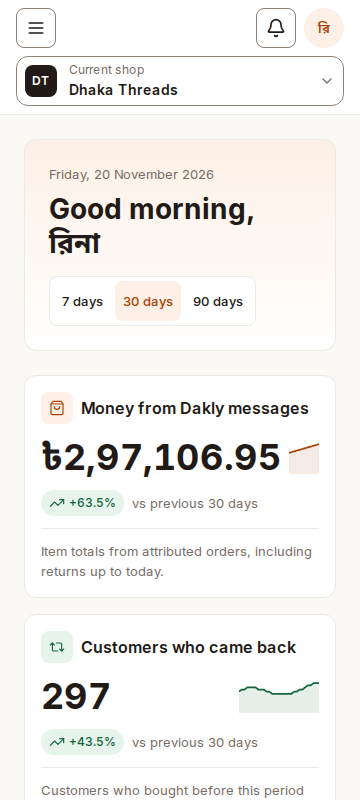
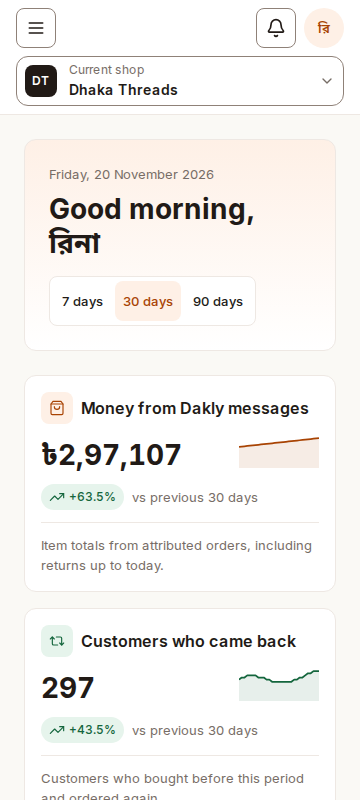
fix(ana-2): fit dashboard amounts and simplify report reads

Changed region(s): [[0.0917, 0.5312, 0.8861, 0.7188], [0.0917, 0.7812, 0.8556, 1.0], [0.8556, 0.8125, 0.8861, 0.8438]]

diff --git a/apps/web/e2e/dashboard.spec.ts b/apps/web/e2e/dashboard.spec.ts
@@ -68,6 +68,29 @@ test('changes the report period and keeps cards scoped to the selected shop', as
     ]) {
       await expect(figures.getByRole('heading', { name: title, exact: true })).toBeVisible();
     }
+    const marketing = figures
+      .getByRole('heading', { name: 'Money from Dakly messages' })
+      .locator('..');
+    const amount = marketing.getByText('৳2,97,107', { exact: true });
+    async function expectAmountBesideTrend() {
+      await expect(amount).toBeVisible();
+      const amountBox = (await amount.boundingBox())!;
+      const chart = (await amount.locator('..').locator('svg').boundingBox())!;
+      const card = (await marketing.boundingBox())!;
+      expect(chart.x).toBeGreaterThanOrEqual(amountBox.x + amountBox.width);
+      expect(chart.x + chart.width).toBeLessThan(card.x + card.width);
+      expect(chart.y).toBeLessThan(amountBox.y + amountBox.height);
+      expect(chart.y + chart.height).toBeGreaterThan(amountBox.y);
+      expect(await amount.evaluate((el) => el.scrollWidth <= el.clientWidth)).toBe(true);
+      expect(amountBox.height).toBeLessThan(40);
+    }
+    await expectAmountBesideTrend();
+    const rows = await figures
+      .getByRole('heading')
+      .evaluateAll((elements) =>
+        elements.map((heading) => heading.parentElement!.getBoundingClientRect().top),
+      );
+    expect(new Set(rows).size).toBe(1);
     await expect(figures.getByRole('img', { name: 'Up', exact: true })).toHaveCount(5);
     const lifecycle = page.getByRole('region', { name: 'Your customers at a glance' });
     await expect(lifecycle.getByText('2,486 customers', { exact: true })).toBeVisible();
@@ -83,6 +106,7 @@ test('changes the report period and keeps cards scoped to the selected shop', as
     expect(await page.evaluate(() => document.documentElement.scrollWidth)).toBeLessThanOrEqual(
       360,
     );
+    await expectAmountBesideTrend();
     if (process.env.DASHBOARD_EVIDENCE) {
       await page.screenshot({ path: testInfo.outputPath('dashboard-360x800.png') });
     }

diff --git a/apps/web/src/features/dashboard/components/dashboard-metrics.tsx b/apps/web/src/features/dashboard/components/dashboard-metrics.tsx
@@ -54,7 +54,13 @@ type MetricsProps = { cards: DashboardResponse['cards']; period: number };
 
 export function DashboardMetrics({ cards, period }: MetricsProps) {
   return (
-    <section aria-label="Key figures" className="grid gap-4 sm:grid-cols-2 xl:grid-cols-4">
+    <section
+      aria-label="Key figures"
+      className={cn(
+        'grid gap-4 sm:grid-cols-2',
+        metrics.every(({ id }) => cards[id]) ? 'xl:grid-cols-5' : 'xl:grid-cols-4',
+      )}
+    >
       {metrics.map(({ id, title, icon: Icon, color, fill, description }) => {
         const card = cards[id];
         if (!card) return null;
@@ -62,6 +68,7 @@ export function DashboardMetrics({ cards, period }: MetricsProps) {
         const total = BigInt(sales ? card.totalPoisha : card.total);
         const previous = BigInt(sales ? card.previousPoisha : card.previous);
         const points = sales ? card.pointsPoisha : card.points;
+        const amount = sales ? formatMoney(((total + 50n) / 100n) * 100n) : formatCount(total);
         return (
           <Card key={id} className="flex min-w-0 flex-col gap-3 p-4">
             <h2 className="flex items-center gap-2 text-md font-semibold xl:gap-1 xl:tracking-tight">
@@ -70,9 +77,9 @@ export function DashboardMetrics({ cards, period }: MetricsProps) {
               </span>
               {title}
             </h2>
-            <div className="flex flex-wrap items-end gap-2">
-              <p className="max-w-full text-2xl font-bold wrap-anywhere tabular-nums">
-                {sales ? formatMoney(total) : formatCount(total)}
+            <div className="flex min-w-0 items-end gap-2">
+              <p className="min-w-0 truncate text-xl font-bold tabular-nums" title={amount}>
+                {amount}
               </p>
               <Sparkline points={points} className={color} />
             </div>

diff --git a/packages/core/src/analytics/analytics.repository.ts b/packages/core/src/analytics/analytics.repository.ts
@@ -16,16 +16,30 @@ export const marketingMetrics = ['marketing_orders', 'marketing_revenue'] as con
 export class AnalyticsRepository {
   constructor(@Inject(TenantDatabase) private readonly database: TenantDatabase) {}
 
-  readDailyMetrics(
+  readDailyMetrics(storeId: string, period: ReportPeriod, metrics: string[]) {
+    return this.readMetrics(
+      storeId,
+      period,
+      metrics,
+      sql`(${storeDailyMetrics.dimension} = '' or ${storeDailyMetrics.metric} = 'sales')`,
+    );
+  }
+
+  readAttributionMetrics(storeId: string, period: ReportPeriod, dimensions?: string[]) {
+    return this.readMetrics(
+      storeId,
+      period,
+      [...marketingMetrics],
+      dimensions ? inArray(storeDailyMetrics.dimension, dimensions) : undefined,
+    );
+  }
+
+  private readMetrics(
     storeId: string,
     period: ReportPeriod,
     metrics: string[],
-    dimensions?: string[] | 'all',
+    filter: ReturnType<typeof sql> | undefined,
   ) {
-    let filter: ReturnType<typeof sql> | undefined;
-    if (dimensions === undefined)
-      filter = sql`(${storeDailyMetrics.dimension} = '' or ${storeDailyMetrics.metric} = 'sales')`;
-    else if (dimensions !== 'all') filter = inArray(storeDailyMetrics.dimension, dimensions);
     return this.database.forStore(storeId, (tx) =>
       tx
         .select({

diff --git a/packages/core/src/analytics/analytics.service.ts b/packages/core/src/analytics/analytics.service.ts
@@ -4,7 +4,7 @@ import { lifecycleStages } from '@dakly/contracts/contacts';
 
 import { Clock } from '../platform/clock';
 import { StoresService } from '../stores/stores.service';
-import { AnalyticsRepository, marketingMetrics } from './analytics.repository';
+import { AnalyticsRepository } from './analytics.repository';
 import { reportDay, retainedSince, shiftReportDay, type ReportPeriod } from './report-period';
 
 type Point = { day: string; value: bigint };
@@ -59,12 +59,7 @@ export class AnalyticsService {
   ) {
     if (!ids.length) return {};
     const dimensions = ids.map((id) => `${source}:${id}`);
-    const rows = await this.repository.readDailyMetrics(
-      storeId,
-      period,
-      [...marketingMetrics],
-      dimensions,
-    );
+    const rows = await this.repository.readAttributionMetrics(storeId, period, dimensions);
     const totals = new Map<string, bigint>();
     for (const { dimension, metric, value } of rows) {
       const key = `${dimension}/${metric}`;

diff --git a/packages/core/src/automations/automations.service.spec.ts b/packages/core/src/automations/automations.service.spec.ts
@@ -85,7 +85,12 @@ function serviceFor(graph: AutomationGraph) {
     {} as WalletService,
     {
       periods: async () => ({ current: { from: '2026-11-01', through: '2026-11-30' } }),
-      attributionBySource: async () => ({}),
+      attributionBySource: async (
+        _storeId: string,
+        _period: unknown,
+        _source: string,
+        ids: string[],
+      ) => Object.fromEntries(ids.map((id) => [id, { orders: '0', revenuePoisha: '0' }])),
     } as unknown as AnalyticsService,
   );
 }

diff --git a/packages/core/src/analytics/analytics-summaries.service.ts b/packages/core/src/analytics/analytics-summaries.service.ts
@@ -98,12 +98,7 @@ export class AnalyticsSummariesService {
     range: ReportPeriod & { timeZone: string },
     now: Date,
   ) {
-    const existing = await this.summaries.readDailyMetrics(
-      storeId,
-      range,
-      [...marketingMetrics],
-      'all',
-    );
+    const existing = await this.summaries.readAttributionMetrics(storeId, range);
     const metrics = new Map(
       existing.map((row) => [`${row.day}/${row.metric}/${row.dimension}`, { ...row, value: 0n }]),
     );

diff --git a/apps/web/src/features/automations/components/automation-row.tsx b/apps/web/src/features/automations/components/automation-row.tsx
@@ -60,9 +60,7 @@ export function AutomationRow({
         <div>
           <dt className="text-text-muted">Revenue, 30 days</dt>
           <dd className="text-base font-semibold tabular-nums">
-            {draft || workflow.attributedRevenuePoisha === undefined
-              ? '—'
-              : formatMoney(BigInt(workflow.attributedRevenuePoisha))}
+            {draft ? '—' : formatMoney(BigInt(workflow.attributedRevenuePoisha))}
           </dd>
         </div>
       </dl>

diff --git a/packages/core/src/automations/automations.service.ts b/packages/core/src/automations/automations.service.ts
@@ -99,7 +99,7 @@ export class AutomationsService {
         stepCount: steps.length,
         channels,
         enteredLast30Days,
-        attributedRevenuePoisha: attribution[row.id]?.revenuePoisha,
+        attributedRevenuePoisha: attribution[row.id]!.revenuePoisha,
       };
     });
     return { items, nextCursor: rows.length > query.limit ? items.at(-1)!.id : null };

diff --git a/packages/contracts/src/automations.ts b/packages/contracts/src/automations.ts
@@ -91,6 +91,6 @@ export type AutomationListItem = AutomationResponse & {
   stepCount: number;
   channels: CampaignChannel[];
   enteredLast30Days: number;
-  attributedRevenuePoisha?: string;
+  attributedRevenuePoisha: string;
 };
 export type AutomationListResponse = { items: AutomationListItem[]; nextCursor: string | null };

diff --git a/apps/api/test/cross-store.int.spec.ts b/apps/api/test/cross-store.int.spec.ts
@@ -1133,6 +1133,7 @@ fixture('GET /automations', async () => {
   expect((await success(a, 'GET', '/automations', 200)).json().items[0]).toMatchObject({
     id: aId,
     enteredLast30Days: 0,
+    attributedRevenuePoisha: '0',
     trigger: 'consent_given',
     channels: ['sms'],
   });

diff --git a/docs/features/10-dashboard-and-notifications.md b/docs/features/10-dashboard-and-notifications.md
@@ -238,7 +238,7 @@ Setup banner, greeting with the Ask box, a 3-step getting started card, KPI card
 
 ### How it works
 
-The dashboard reads `GET /dashboard` once per period. The `period` query accepts 7, 30 or 90 days and defaults to 30. The API uses the same report functions as Analytics for both periods and the daily points. Orders and Sales require Orders access. New customers, Customers who came back and lifecycle groups require Customers access. The lifecycle groups use the latest snapshot in the selected period. Money from Dakly messages uses the attribution rollup and requires Analytics view access. The Ask box waits for HOME-4, and the setup checklist waits for ACC-13. Campaign suggestions and the posts calendar are outside HOME-3. Lifecycle counts are visible without stage links until All customers can filter by lifecycle stage.
+The dashboard reads `GET /dashboard` once per period. The `period` query accepts 7, 30 or 90 days and defaults to 30. The API uses the same report functions as Analytics for both periods and the daily points. Orders and Sales require Orders access. New customers, Customers who came back and lifecycle groups require Customers access. The lifecycle groups use the latest snapshot in the selected period. Money from Dakly messages uses the attribution rollup and requires Analytics view access. The dashboard shows money cards in whole taka, with report values kept in poisha. The Ask box waits for HOME-4, and the setup checklist waits for ACC-13. Campaign suggestions and the posts calendar are outside HOME-3. Lifecycle counts are visible without stage links until All customers can filter by lifecycle stage.
 
 Notifications
 
